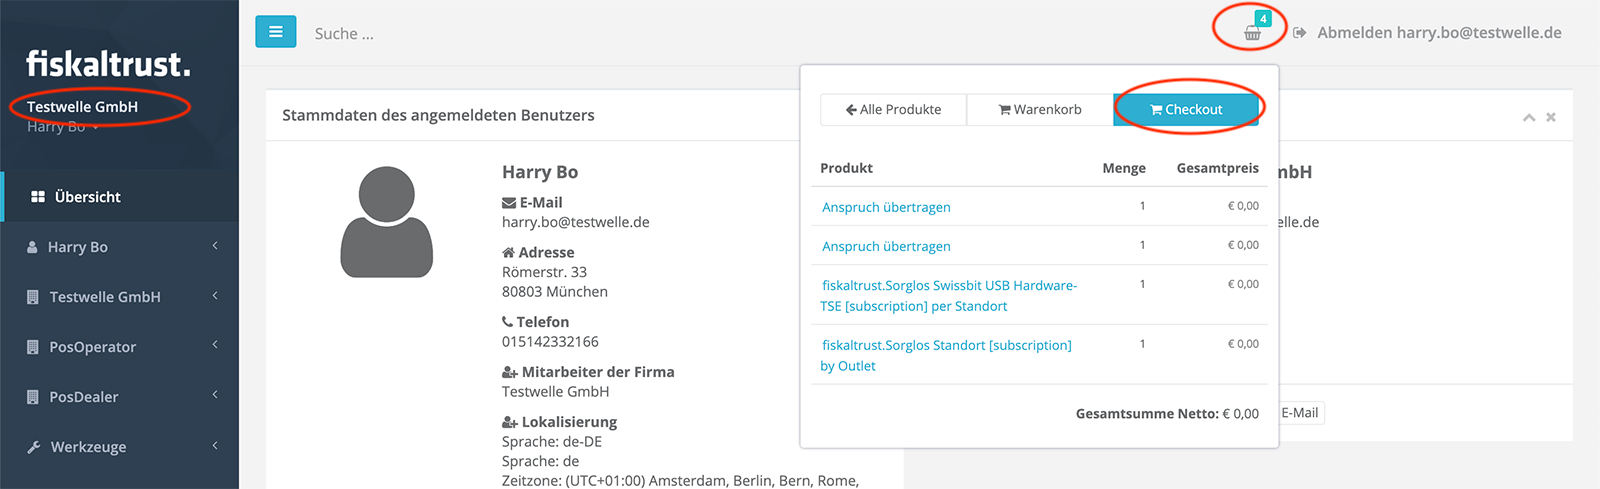
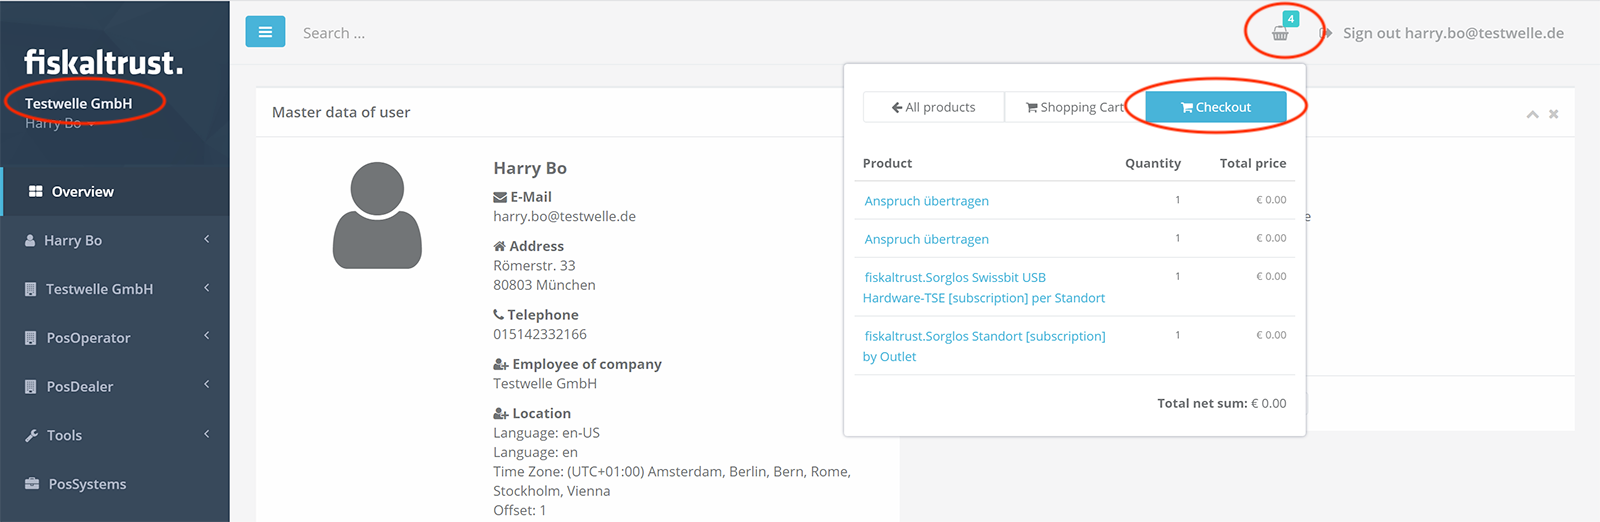
add english screenshots for shop

diff --git a/en/shop/README.md b/en/shop/README.md
@@ -44,7 +44,7 @@ In this chapter, we will go into the associated processes and show how they can 
 
 The purchase of fiskaltrust products takes place via the fiskaltrust.Shop. It is part of the fiskaltrust.Portal. In the "Products" area, suitable fiskaltrust products are offered for purchase depending on the [partner role](../README.md#the-different-roles-of-the-fiskaltrust-partners). For POSDealers, these are, in addition to various TSEs, so-called "Händereinkaufsprodukt", which represent entitlements:
 
-![shop-haenlder-produkte](images/shop-dealer-products.png "Produkte für KassenHändler im Shop")
+![shop-dealer-products](images/shop-dealer-products.png "Products for POSDealers in shop")
 
 
 
@@ -62,38 +62,38 @@ In the following example, we show you how you as a POSDealer can purchase entitl
 
 In the fiskaltrust.portal, go to the menu item "Shop->Products" and place e.g. 15 pieces of the product "fiskaltrust.Sorglos mit TSE Händlereinkaufsprodukt" (entitlement for a carefree package with TSE-as-a-service) in the shopping cart:
 
-![entitlements-kaufen-1](images/buy-entitlements-1.png "Produkte in den Warenkorb legen")
+![buy-entitlements-1](images/buy-entitlements-1.png "Add products to chart")
 
 
 
 In the top bar you will see a shopping cart icon that you can press. A popup will appear. Select "Checkout" here:
 
-![entitlements-kaufen-2](images/buy-entitlements-2.png "Checkout")
+![buy-entitlements-2](images/buy-entitlements-2.png "Checkout")
 
 
 
 
 Next, the summary of your order will be displayed:
 
-![entitlements-kaufen-3](images/buy-entitlements-3.png "Bestellung wird angezeigt")
+![buy-entitlements-3](images/buy-entitlements-3.png "Order is shown")
 
 
 
 Check the information and the displayed prices. Then press the button: "Binding order". You will receive a confirmation of your order:
 
-![entitlements-kaufen-4](images/buy-entitlements-4.png "Bestellung bestätigt")
+![buy-entitlements-4](images/buy-entitlements-4.png "Order confirmed")
 
 You will also receive a corresponding confirmation of the order by email.
 
 You can also view your orders at any time in the "Shop->Orders" section:
 
-![entitlements-kaufen-5](images/buy-entitlements-5.png "Bestellungen einsehen")
+![buy-entitlements-5](images/buy-entitlements-5.png "Order")
 
 You can find the corresponding invoice under "Shop->Invoices".
 
 After the order has been processed by the fiskaltrust system, the Entitlements credited to you will appear in the "Shop->Entitlements" area. In our example, we receive 15 Entitlements for redeeming the Carefree package and 15 Entitlements for redeeming the associated TSE-as-a-Service:
 
-![entitlements-kaufen-6](images/buy-entitlements-6.png "Entitlements gutgeschrieben")
+![buy-entitlements-6](images/buy-entitlements-6.png "Entitlements received")
 
 ## Transfer of purchased entitlements to the POSOperator
 
@@ -101,19 +101,19 @@ The transfer of the purchased entitlements and the activation of the associated 
 
 To transfer the previously purchased entitlements to the POSOperator, use the surrogate function in the fiskaltrust.Portal to switch from your account as a POSDealer to the account of the POSOperator. To do this, go to the "POSOperator->Overview" area and search for the POSOperator to whom you want to transfer the entitlement(s):
 
-![kassenbetreiber suchen](images/search-posoperator.png "KassenBetreiber suchen")
+![search posoperator](images/search-posoperator.png "Search POSOperator")
 
 Now press on the name of the POSOperator, which is displayed in the list as a link (if the name of the POSOperator does not appear here as a link, then he has not yet signed the user agreement). If you click on the link, you will be redirected to the account of the POSOperator. You can recognize this by the fact that a button named "Switch to your account" appears in the upper area on the right and the company name of the POSOperator is now displayed in the menu bar.
 
-![im betreiber account](images/in-posoperator-account.png "Im Account des KassenBetreiber")
+![in operator account](images/in-posoperator-account.png "In the account of the POSOperator")
 
 Now go to "Shop->Products" in the menu. Here, first select in the upper area the outlet of the POSOperator to which you want to transfer the entitlements and then put the desired "transfer products" in the shopping cart. In our example: "TSE-as-a-Service - Anspruch übertragen" (transfer claim for a TSE-as-a-Service)  and "fiskaltrust.Sorglos - Anspruch übertragen" (transfer claim for the carefree package):
 
-![Ansprüche übertragen](images/transfer-claims-1.png "Ansprüche übertragen")
+![transfer claims](images/transfer-claims-1.png "Transfer claims")
 
 Next, add the "activation products" associated with the claims to the shopping cart for activation at the POSOperator. In this example, we now decide to use a Swissbit USB hardware TSE. In our example, the "activation products": "Swissbit USB Hardware TSE-as-a-Service - aus - Anspruch erzeugen" (activate Swissbit USB TSE-as-a-Service by using the entitlement/claim) and "fiskaltrust.Sorglos Betreiber-Abo - aus Anspruch erzeugen" (activate the carefree package by using the entitlement/claim) are to be added to the shopping cart. Note: Please make sure that the correct outlet is selected in the upper area before adding to the shopping cart.
 
-![Produkte aktivieren](images/transfer-claims-2.png "Produkte aktivieren")
+![activate products](images/transfer-claims-2.png "activate products")
 
 If desired, you can repeat the steps described above for other outlets and also for other of your POSOperators and add the claims and activations to the shopping cart for them as well:
 
@@ -125,25 +125,25 @@ The 2nd and 3rd step (activate) always refers to the outlet selected above and c
 
 Important: To check out the shopping cart, **you must** now return to your POSDealer account. To do this, press the "Switch to your account" button in the upper area on the right:
 
-![Zurück zum KassenHändler Account](images/back-to-posoperator-account.png "Zurück zum KassenHändler Account")
+![back to the posdealer account](images/back-to-posoperator-account.png "Back to the POSDealer account")
 
 Back in your account you can now see that the previously selected products also appear in your shopping cart:
 
-![Checkout im Händleraccount](images/checkout-in-posoperator-account.png "Checkout im KassenHändler Account")
+![Checkout in the POSDealer account](images/checkout-in-posoperator-account.png "Checkout in the POSDealer account")
 
 Press "Checkout" here and then check the shopping cart before submitting the order. Above all, check the correctness of the outlet information. These transfers and activations of products for the POSOperator should of course be free of charge.
 
-![Bestellung](images/order-for-operator.png "Bestellung der Übertragungen und Aktivierungen")
+![Order](images/order-for-operator.png "Order")
 
 Next, you will see the successful order and you will also receive a confirmation email about it. You can view your orders at any time in the "Shop->Orders" area. The corresponding invoices are in the area "Shop->Invoices".
 
 After the order is processed by the fiskaltrust system (can take 2-3 minutes), the used entitlements will be deducted from you. In our example, there are now only 14 left from 15 before.
 
-![Ansprüche verbraucht](images/claims-consumed.png "Ansprüche verbraucht")
+![claims consumed](images/claims-consumed.png "Claims consumed")
 
 In addition, we can see in the POSOperator's account that the carefree package has been activated for the outlet previously specified during activation:
 
-![Produkt Sorglos aktiviert](images/carefree-activated.png "Produkt Sorglos aktiviert")
+![carefree activated](images/carefree-activated.png "Product carefree activated")
 
 
 ## Tips & Tricks
@@ -181,15 +181,15 @@ In this chapter, we would like to use an example to demonstrate how to check out
 
 Log in to your POSDealer account and change in the first step with the help of the surrogate function in the account of the POSOperator. To do this, search under the menu item "POSOperator->Overview" for the POSOperator for which you want to check out and set up the Swissbit Cloud TSE:
 
-![kassenbetreiber suchen](images/search-posoperator.png "KassenBetreiber suchen")
+![Search POSOperator](images/search-posoperator.png "Search POSOperator")
 
 Now press on the name of the POSOperator, which is displayed in the list as a link (if the name of the POSOperator does not appear here as a link, then he has not yet signed the user agreement). This will redirect you to the POSOperator's account. You can recognize this by the fact that a button named "Switch to your account" appears in the upper area on the right and the company name of the POSOperator is now displayed in the menu bar.
 
-![im betreiber account](images/in-posoperator-account.png "Im Account des KassenBetreiber")
+![In the account of the PosOperator](images/in-posoperator-account.png "In the account of the PosOperator")
 
 Now press the menu item: "Shop->Products" in the account of the POSOperator. First select the desired outlet of the POSOperator in the upper area.
 
-![swissbit cloud produkte](images/swissbit-cloud-1.png "Swissbit Cloud TSE Produkte")
+![swissbit cloud products](images/swissbit-cloud-1.png "Swissbit Cloud TSE products")
 
 Next, add the following products to your shopping cart:
 
@@ -200,7 +200,7 @@ Next, add the following products to your shopping cart:
 
 Important: To check out the shopping cart, **you must** now return to your POSDealer account. To do this, press the "Switch to your account" button in the upper area on the right:
 
-![Zurück zum KassenHändler Account](images/back-to-posoperator-account.png "Zurück zum KassenHändler Account")
+![Back to the POSDealer account](images/back-to-posoperator-account.png "Back to the POSDealer account")
 
 
 
@@ -210,17 +210,17 @@ Back in your account, you can now see that the previously selected products also
 
 Press "Checkout" here and then check the shopping cart before submitting the order. Especially check the correctness of the outlet information.
 
-![swissbit cloud check](images/swissbit-cloud-3.png "Swissbit Cloud TSE Überprüfen")
+![swissbit cloud check](images/swissbit-cloud-3.png "Swissbit Cloud TSE check")
 
 Next, you will see the successful order and you will also receive a confirmation email about it. You can view your orders at any time in the "Shop->Orders" area. The corresponding invoices are in the area "Shop->Invoices".
 
 After the order has been processed by the fiskaltrust system (can take 2-3 minutes), you can see in the POSOperator's account that the previously ordered carefree package has been activated in the POSOperator's outlet. To do this, use the surrogation function to switch to the POSOperator's account and go to "[Company name] -> Outlets" in the menu:
 
-![sorglos aktiv](images/swissbit-cloud-4.png "Sorglos aktiviert")
+![carefee aktiv](images/swissbit-cloud-4.png "Carefree activated")
 
 In addition, the CashBox was also created because before that we added the template to the cart and checked out. To check this, go to "Configuration -> CashBox" in the menu:
 
-![cashbox angelegt](images/swissbit-cloud-5.png "Cashbox angelegt")
+![cashbox created](images/swissbit-cloud-5.png "Cashbox created")
 
 This sets up the CashBox for the Swissbit Cloud TSE. You can now download and start the desired launcher, it uses the previously created CashBox for the Swissbit Cloud TSE for configuration.
 
